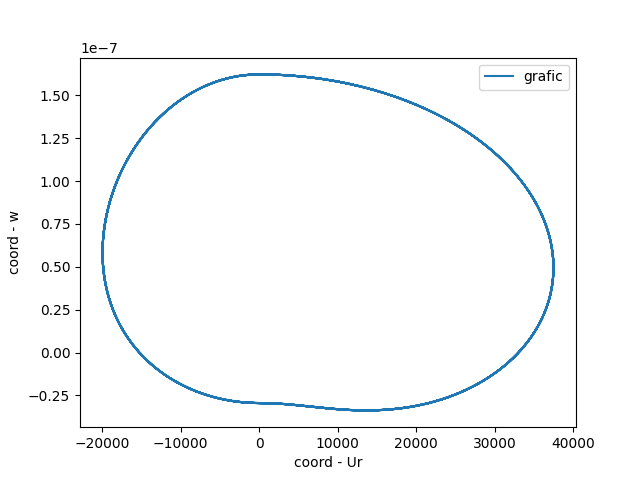
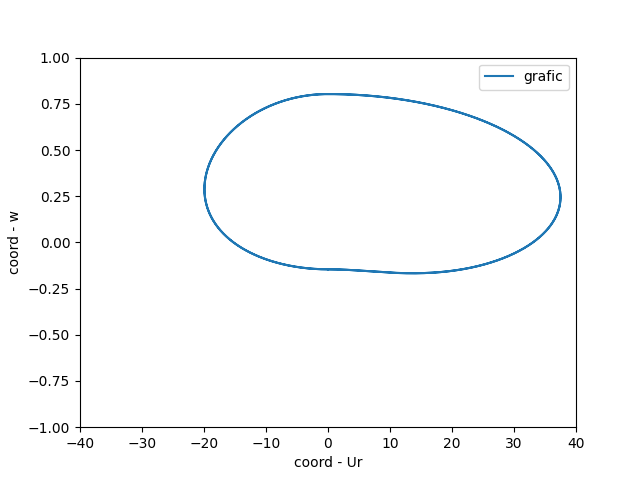
123

diff --git a/ellips.py b/ellips.py
@@ -10,9 +10,13 @@ alpha = 0*np.pi/180                     # угол между начальным
 A2 = 1.496*10**11                       # большая полуось Земли
 T2 = 365.26*86400                       # период обращения Земли
 
+fig, ax = plt.subplots()
+ax.set_xlim(-40, 40)
+ax.set_ylim(-1, 1)
+
 def ellips_plotter(A1, T1, M, e, alpha, A2, T2):
     p1 = A1*(1-e**2)                                        # фокальный параметр тела
-    E = np.linspace(0, 6*np.pi, 100000)                     # эксцентрическая аномалия тела
+    E = np.linspace(0, 2*np.pi, 100000)                     # эксцентрическая аномалия тела
     t = (E-e*np.sin(E))*T1/(2*np.pi)                        # время с перицентра 
     phi_1 = 2*np.arctan(np.tan(E/2)*((1+e)/(1-e))**0.5)     # истинная аномалия тела 
     phi_2 = 2*np.pi*(t/T2)                                  # истинная аномалия Земли
@@ -26,11 +30,10 @@ def ellips_plotter(A1, T1, M, e, alpha, A2, T2):
     psi = np.arccos((r1**2+L**2-A2**2)/(2*r1*L))            # фазовый угол
     eps = np.arccos(Vr1/V1)                                 # угол между лучевой и полной тела
     i = np.pi/2 + psi - eps                                 # угол между полной и трансверсальной для Земли
-    #gamma = np.arccos((L**2 + A2**2 - r1**2)/(2*A2*L))      # элонгационный угол
+    #gamma = np.arccos((L**2 + A2**2 - r1**2)/(2*A2*L))     # элонгационный угол
     Ut = V1*np.cos(i) - V2*np.cos(psi+theta)                # трансверсальная относительно Земли
-    Ur = V1*np.sin(i) - V2*np.sin(psi+theta)                    # лучевая относительно Земли
-    w = Ut/r1                                               # угловая относительно Земли
-
+    Ur = (V1*np.sin(i) - V2*np.sin(psi+theta))/1000         # лучевая относительно Земли
+    w = Ut/r1 * 180/np.pi * 86400                           # угловая относительно Земли
     plt.plot(Ur, w, label='grafic')
     plt.xlabel('coord - Ur')
     plt.ylabel('coord - w')
